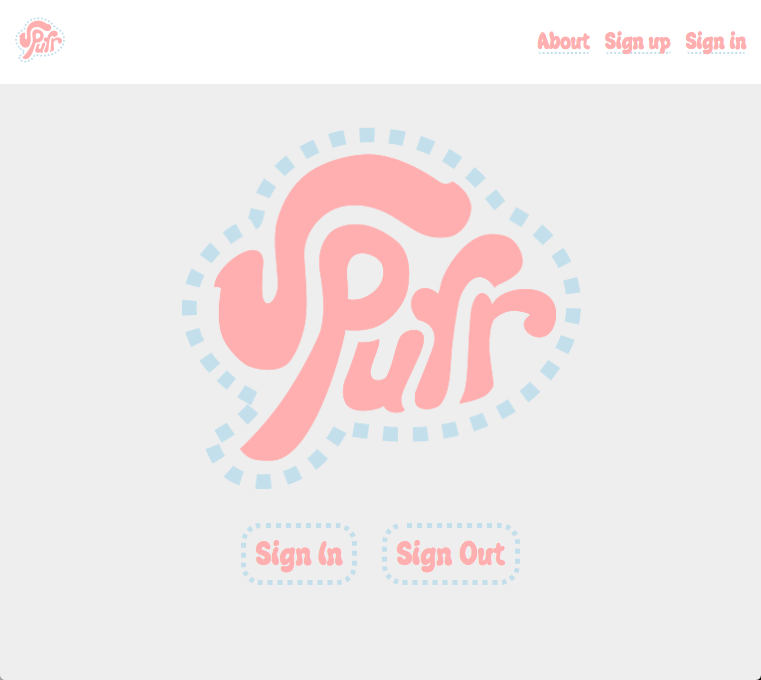
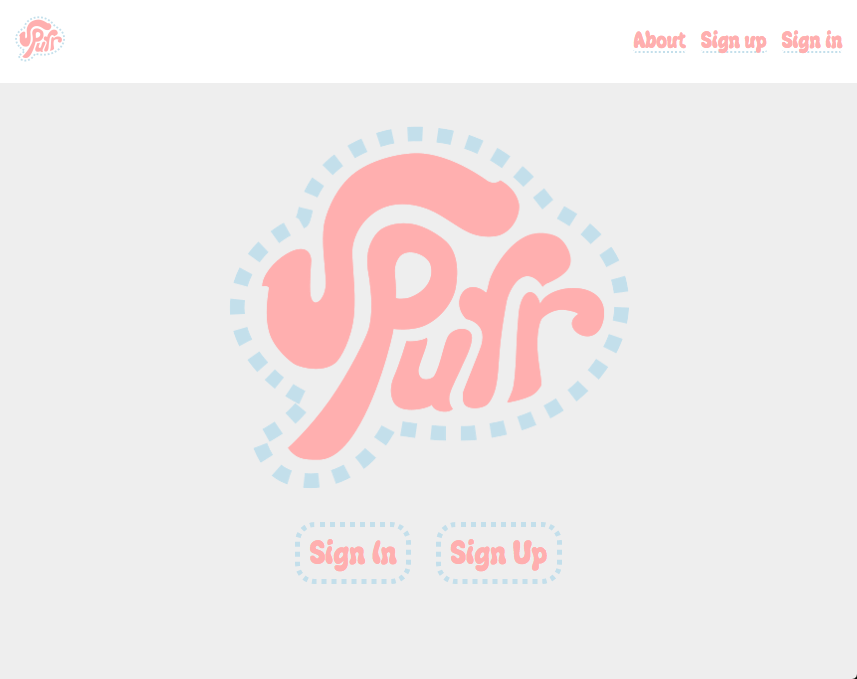
update spurr screenshots

diff --git a/client/factories/app.js b/client/factories/app.js
@@ -49,9 +49,9 @@ angular.module('appFact', [])
       '../assets/spurr/logo-color.png',
       '../assets/spurr/s1.png',
       '../assets/spurr/s2.png',
-      // '../assets/spurr/s3.png',
-      // '../assets/spurr/s4.png',
-      // '../assets/spurr/s5.png',
+      '../assets/spurr/s3.png',
+      '../assets/spurr/s4.png',
+      '../assets/spurr/s5.png',
     ],
     elevator: 'Your personal PostSecret',
     description: 'Combining Snapchat with PostSecret, Spurr produces a cathartic release of stress and a rush of excitement. Release your tense thoughts while indulging in gossip! Send a secret, get a secret. Get something off your chest by sending it into our ether, then enjoy a secret from someone else sent only to you! Spurr creates an outlet that combines the therapeutic act of revealing secrets with the enjoyment obtained from hearing secrets.',

diff --git a/client/style.css b/client/style.css
@@ -59,6 +59,10 @@ nav li, .display li {
   padding-top: 50px;
 }
 
+.container {
+  min-width: 450px;
+}
+
 .jumbotron, .container .jumbotron {
   border: none;
   border-radius: 0;
@@ -157,20 +161,20 @@ footer {
 
 .choices {
   display: flex;
-  width: 480px;
+  width: 380px;
   margin: auto;
 }
 
 .devName {
-  border-radius: 10px;
-  margin: 10px;
-  min-width: 100px;
+  margin: 5px;
+  padding: 5px;
+  font-size: 25px;
+  min-width: 85px;
+  font-weight: bold;
   text-align: center;
+  border-radius: 5px;
   background: rgb(255, 255, 255);
   background: rgba(255, 255, 255, 0.75);
-  font-size: 25px;
-  font-weight: bold;
-  padding: 15px;
 }
 
 .center {
